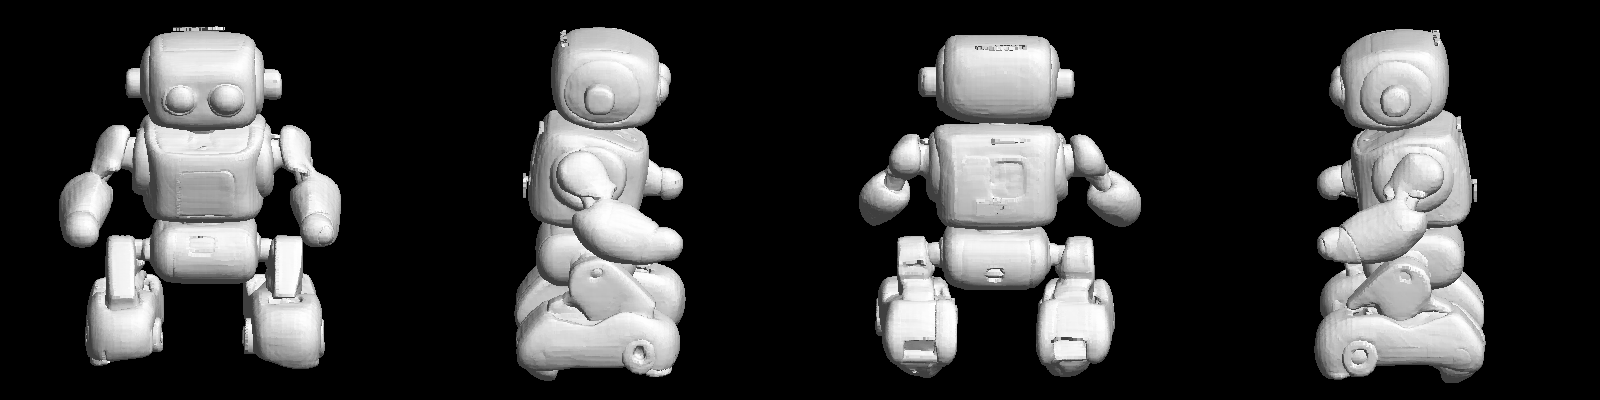
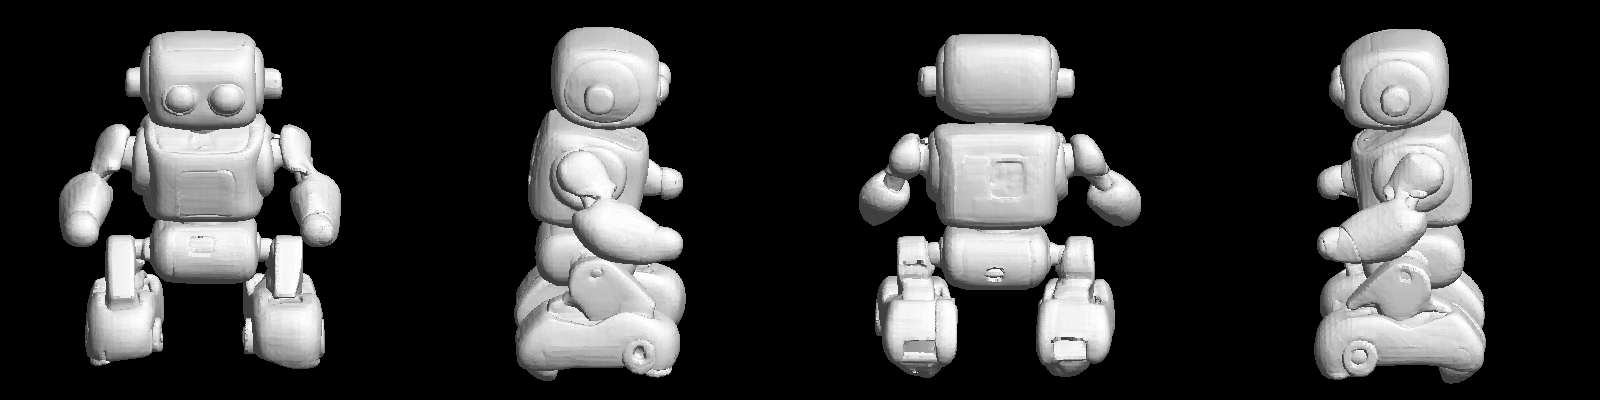
Drop paper-thin surface flakes by component thickness
Debris survived the size-based filter: flakes 11-29 % long but only
0.5-1.4 % thick, hovering ~1 % off the surface (dark speckles and tabs
in renders). Real detached parts measure >= 11.8 % thick, so a minimum
bbox-extent test separates them with an order-of-magnitude margin.

- drop_small_parts: new min_thick_ratio (TRELLIS_DROP_THIN_PARTS,
  default 0.02, 0 disables)
- Verified in a full run: components 202 -> 1, generation and
  post-processing time unchanged; tests/test_drop_parts.py 5/5
- assets/preview.png regenerated from the cleaned output

diff --git a/runners/trellis/postprocess.py b/runners/trellis/postprocess.py
@@ -15,7 +15,8 @@
 
 ## 上流に無い処理を 1 つだけ足している
 
-**外側に浮いている小さな破片を、大きさで落とす。**（`.env` の `*_DROP_SMALL_PARTS`）
+**外側に浮いている破片を、大きさと薄さで落とす。**
+（`.env` の `*_DROP_SMALL_PARTS` / `*_DROP_THIN_PARTS`）
 
 上流にこの手当ては無い。可視率で切る仕組みは「見えない面」を狙うので、**空中に浮いた
 破片は見えてしまい、通り抜ける**。実測（2026-09-01・検体 `i2i_00038_.png`）：
@@ -157,27 +158,38 @@ def fill_holes(
 def drop_small_parts(
     mesh: trimesh.Trimesh,
     min_ratio: float,
+    min_thick_ratio: float = 0.0,
     progress: Callable[[str, str], None] | None = None,
     stats: CleanStats | None = None,
 ) -> trimesh.Trimesh:
-    """**外側に浮いた小さな破片を落とす**（上流に無い、こちらの追加）。
+    """**外側に浮いた破片を「小ささ」と「薄さ」で落とす**（上流に無い、こちらの追加）。
 
-    判定は「その成分の外接箱の最長辺 ÷ 全体の最長辺」。面数ではなく**空間の大きさ**で
-    見るのは、細かく分割された小片と、面数が少ないだけの正当な部品を分けるため。
+    判定は成分の外接箱（軸平行）と全体の最長辺の比で、2 つの条件の**両方**を
+    満たす成分だけ残す：
 
-    実測（検体 `i2i_00038_.png`）では、しきい値 10% で腕と手（全体の 15%）は残り、
-    目に見える破片（6.5% 以下）は消えた。
+    1. **最長辺が `min_ratio` 以上**（小さな破片を落とす）。面数ではなく空間の大きさで
+       見るのは、細かく分割された小片と、面数が少ないだけの正当な部品を分けるため
+    2. **最短辺が `min_thick_ratio` 以上**（薄片を落とす）。表面から約 1% 浮いて
+       平行に張り付く紙のような薄片は、**長さが 11〜29% あるので 1 だけでは
+       素通りする**（描画では表面の黒い斑点や板状の突起に見える）
+
+    実測（検体 `i2i_00038_.png`）：しきい値 10% で腕と手（全体の 15%）は残り、
+    目に見える破片（6.5% 以下）は消えた。薄さは、残っていた薄片が**厚み 0.1〜1.4%**、
+    正当な部品（腕・パネル）が**厚み 11.8% 以上**で、2% にすると桁の余裕で分離できた
+    （2026-09-02）。斜めの薄片は軸平行の外接箱では厚めに出るが、実測の薄片はすべて
+    表面に平行＝ほぼ軸平行で問題にならなかった。
 
     Args:
         mesh: 対象。
-        min_ratio: 残す最小の大きさ（全体の最長辺に対する比）。0 以下なら何もしない。
+        min_ratio: 残す最小の大きさ（全体の最長辺に対する比）。0 以下なら判定しない。
+        min_thick_ratio: 残す最小の厚み（同）。0 以下なら判定しない。
         progress: 段の通知先。
         stats: 記録の置き場。
 
     Returns:
         破片を除いたメッシュ。**最大の成分だけは必ず残す。**
     """
-    if min_ratio <= 0:
+    if min_ratio <= 0 and min_thick_ratio <= 0:
         return mesh
     parts = mesh.split(only_watertight=False)
     if stats is not None:
@@ -187,10 +199,15 @@ def drop_small_parts(
             stats.parts_after = len(parts)
         return mesh
 
-    whole = float(np.max(mesh.bounding_box.extents))
-    sizes = np.array([float(np.max(p.bounding_box.extents)) for p in parts])
+    whole = max(float(np.max(mesh.bounding_box.extents)), 1e-12)
     face_counts = np.array([len(p.faces) for p in parts])
-    keep = sizes / max(whole, 1e-12) >= min_ratio
+    keep = np.ones(len(parts), dtype=bool)
+    if min_ratio > 0:
+        sizes = np.array([float(np.max(p.bounding_box.extents)) for p in parts])
+        keep &= sizes / whole >= min_ratio
+    if min_thick_ratio > 0:
+        thicks = np.array([float(np.min(p.bounding_box.extents)) for p in parts])
+        keep &= thicks / whole >= min_thick_ratio
     keep[int(np.argmax(face_counts))] = True  # 最大の成分は必ず残す
 
     if stats is not None:
@@ -227,6 +244,6 @@ def clean(
         )
         mesh = trimesh.Trimesh(vertices=vertices, faces=faces, process=False)
 
-    mesh = drop_small_parts(mesh, config.DROP_SMALL_PARTS, progress, stats)
+    mesh = drop_small_parts(mesh, config.DROP_SMALL_PARTS, config.DROP_THIN_PARTS, progress, stats)
     stats.faces_after = len(mesh.faces)
     return mesh, stats

diff --git a/tests/test_drop_parts.py b/tests/test_drop_parts.py
@@ -1,0 +1,83 @@
+# SPDX-License-Identifier: MIT
+"""`drop_small_parts`（小ささ＋薄さ）の検算。
+
+合成メッシュで「本体・正当な部品・小さな破片・表面の薄片」を作り、
+**残るべきものが残り、消えるべきものが消える**ことを確かめる。
+
+実行はこの venv で（trimesh が要る。torch は postprocess の import が引く）::
+
+    .venv\\Scripts\\python.exe .\\tests\\test_drop_parts.py
+"""
+
+from __future__ import annotations
+
+import sys
+from pathlib import Path
+
+import trimesh
+
+REPO_ROOT = Path(__file__).resolve().parent.parent
+sys.path.insert(0, str(REPO_ROOT))
+
+FAILURES: list[str] = []
+
+
+def check(name: str, ok: bool, detail: str = "") -> None:
+    mark = " OK " if ok else "FAIL"
+    print(f"  {mark}  {name}" + (f"  ({detail})" if detail and not ok else ""))
+    if not ok:
+        FAILURES.append(name)
+
+
+def build_specimen() -> tuple[trimesh.Trimesh, int]:
+    """本体＋部品＋破片＋薄片。返り値は (メッシュ, 残るべき面数)。"""
+    body = trimesh.creation.box(extents=(1.0, 1.0, 1.0))
+    # 正当な部品：大きさ 20%・厚み 20%（腕のつもり）
+    limb = trimesh.creation.box(extents=(0.2, 0.2, 0.2))
+    limb.apply_translation((0.8, 0.0, 0.0))
+    # 小さな破片：大きさ 5%（従来の基準で消える）
+    crumb = trimesh.creation.box(extents=(0.05, 0.05, 0.05))
+    crumb.apply_translation((0.0, 0.8, 0.0))
+    # 表面の薄片：長さ 30%・厚み 0.5%（従来の基準を素通りしていたゴミ）
+    flake = trimesh.creation.box(extents=(0.3, 0.3, 0.005))
+    flake.apply_translation((0.0, 0.0, 0.51))
+    mesh = trimesh.util.concatenate([body, limb, crumb, flake])
+    return mesh, len(body.faces) + len(limb.faces)
+
+
+def run(label: str, drop_small_parts) -> None:  # noqa: ANN001
+    mesh, want_faces = build_specimen()
+    out = drop_small_parts(mesh, min_ratio=0.10, min_thick_ratio=0.02)
+    parts = out.split(only_watertight=False)
+    check(f"{label}: 本体と部品の 2 成分が残る", len(parts) == 2, f"got {len(parts)}")
+    check(f"{label}: 面数が本体＋部品と一致する", len(out.faces) == want_faces)
+
+    # 薄さ判定を切れば薄片は残る（0 で無効の約束）
+    out2 = drop_small_parts(mesh, min_ratio=0.10, min_thick_ratio=0.0)
+    check(
+        f"{label}: min_thick_ratio=0 なら薄片は残る",
+        len(out2.split(only_watertight=False)) == 3,
+    )
+
+    # 両方 0 なら何もしない
+    out3 = drop_small_parts(mesh, min_ratio=0.0, min_thick_ratio=0.0)
+    check(f"{label}: 両方 0 なら何もしない", len(out3.faces) == len(mesh.faces))
+
+    # 本体が薄くても最大成分は必ず残る
+    thin_body = trimesh.creation.box(extents=(1.0, 1.0, 0.01))
+    out4 = drop_small_parts(thin_body.copy(), min_ratio=0.10, min_thick_ratio=0.02)
+    check(f"{label}: 最大成分は必ず残る", len(out4.faces) == len(thin_body.faces))
+
+
+def main() -> int:
+    from runners.trellis import postprocess as tre
+
+    run("trellis", tre.drop_small_parts)
+
+    total = 5
+    print(f"\n{total - len(FAILURES)}/{total} 成功")
+    return 1 if FAILURES else 0
+
+
+if __name__ == "__main__":
+    raise SystemExit(main())

diff --git a/runners/trellis/config.py b/runners/trellis/config.py
@@ -97,3 +97,9 @@ FILL_HOLES_MAX_NBE: int = _int("TRELLIS_FILL_HOLES_MAX_NBE", 250)
 # 成分の外接箱の最長辺が全体の何割未満なら捨てるか。0 で無効。
 # 実測では 10% で腕と手（15%）は残り、目に見える破片（6.5% 以下）が消えた。
 DROP_SMALL_PARTS: float = _float("TRELLIS_DROP_SMALL_PARTS", 0.10)
+
+# **これも上流に無い追加。** 外接箱の最短辺が全体の最長辺のこの比未満の分離成分
+# （＝紙のような薄片）を落とす。表面から約 1% 浮いた薄片は長さが 11〜29% あるので
+# DROP_SMALL_PARTS だけでは素通りする。実測：薄片は厚み 1.4% 以下・正当な部品は
+# 11.8% 以上（2026-09-02）。0 で無効。
+DROP_THIN_PARTS: float = _float("TRELLIS_DROP_THIN_PARTS", 0.02)

diff --git a/README.md b/README.md
@@ -152,8 +152,12 @@ runner sets it for you; setting it afterwards has no effect.
 - **One addition that upstream does not have.** Upstream removes faces that are
   never visible; parts floating in open air stay visible and survive. Measured
   on one sample, 794 of 831 stray parts were outside the body. The runner drops
-  free-floating parts below 10 % of the model's longest side, and always records
-  how much it dropped. Set `TRELLIS_DROP_SMALL_PARTS=0` to disable.
+  detached parts that are **small** (below 10 % of the model's longest side,
+  `TRELLIS_DROP_SMALL_PARTS`) or **paper-thin** (min bbox extent below 2 %,
+  `TRELLIS_DROP_THIN_PARTS`) — the thin ones are surface-hugging flakes up to
+  29 % long that pass the size test but render as dark speckles and tabs.
+  Measured margins: flakes ≤ 1.4 % thick, real detached parts ≥ 11.8 %. How much
+  was dropped is always recorded. Set either to 0 to disable.
 - Generation time on this hardware depends on the GPU power state (see the
   600 MHz section above). The keepalive pins the fast case, but do not use
   wall-clock time as a pass/fail signal.
